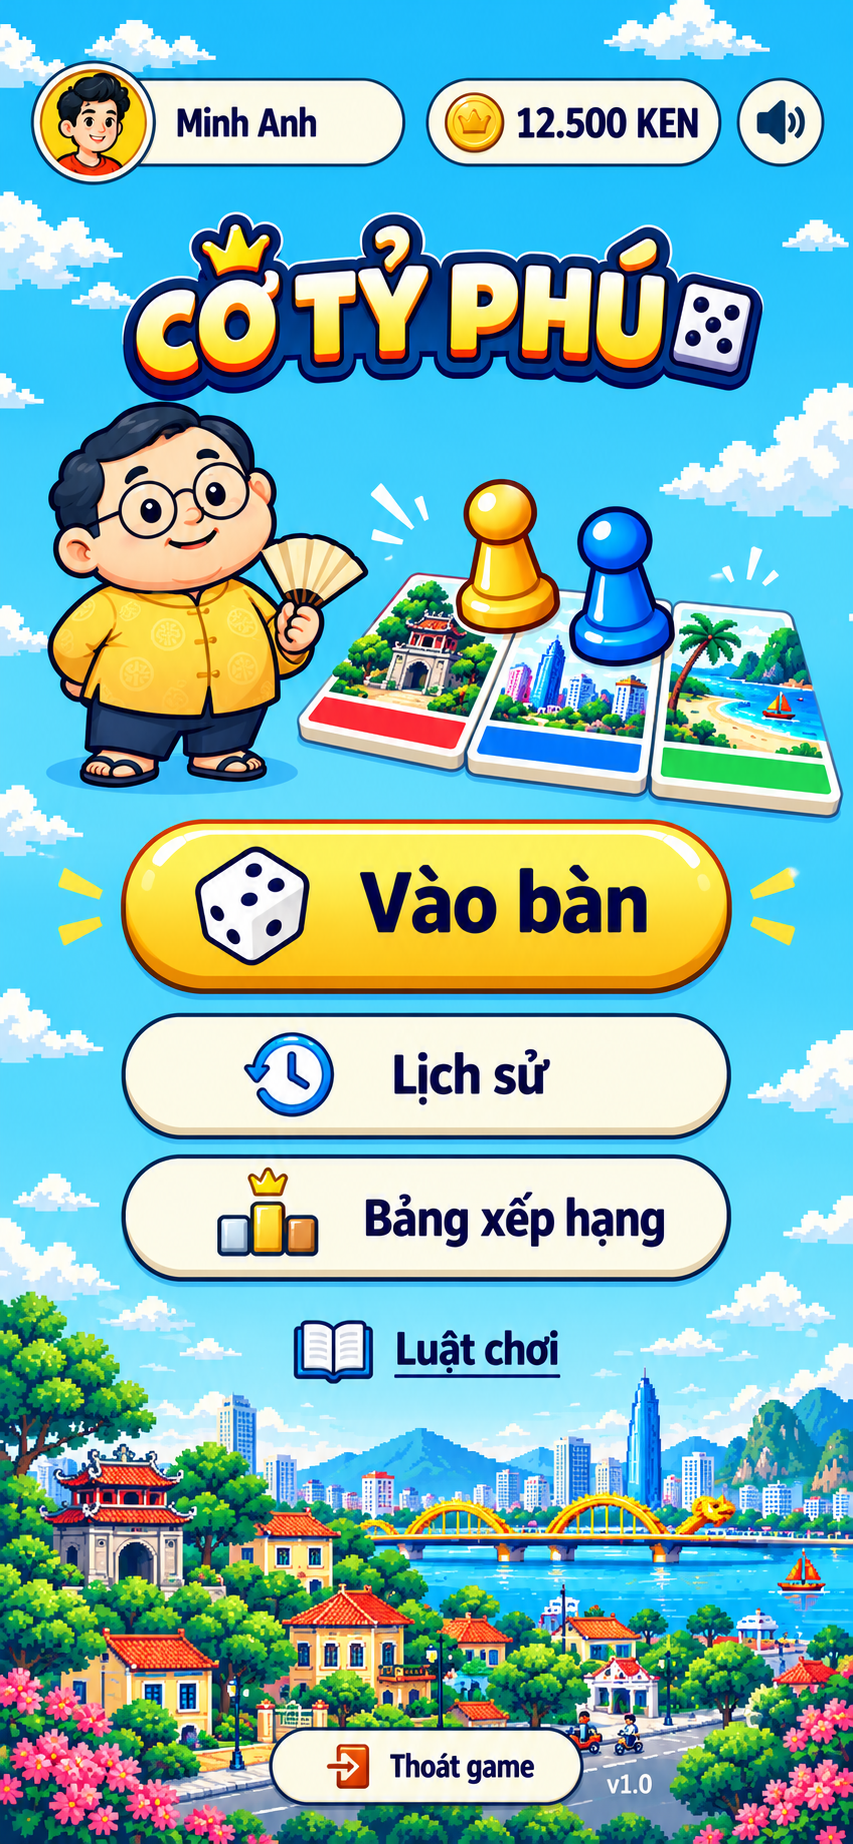
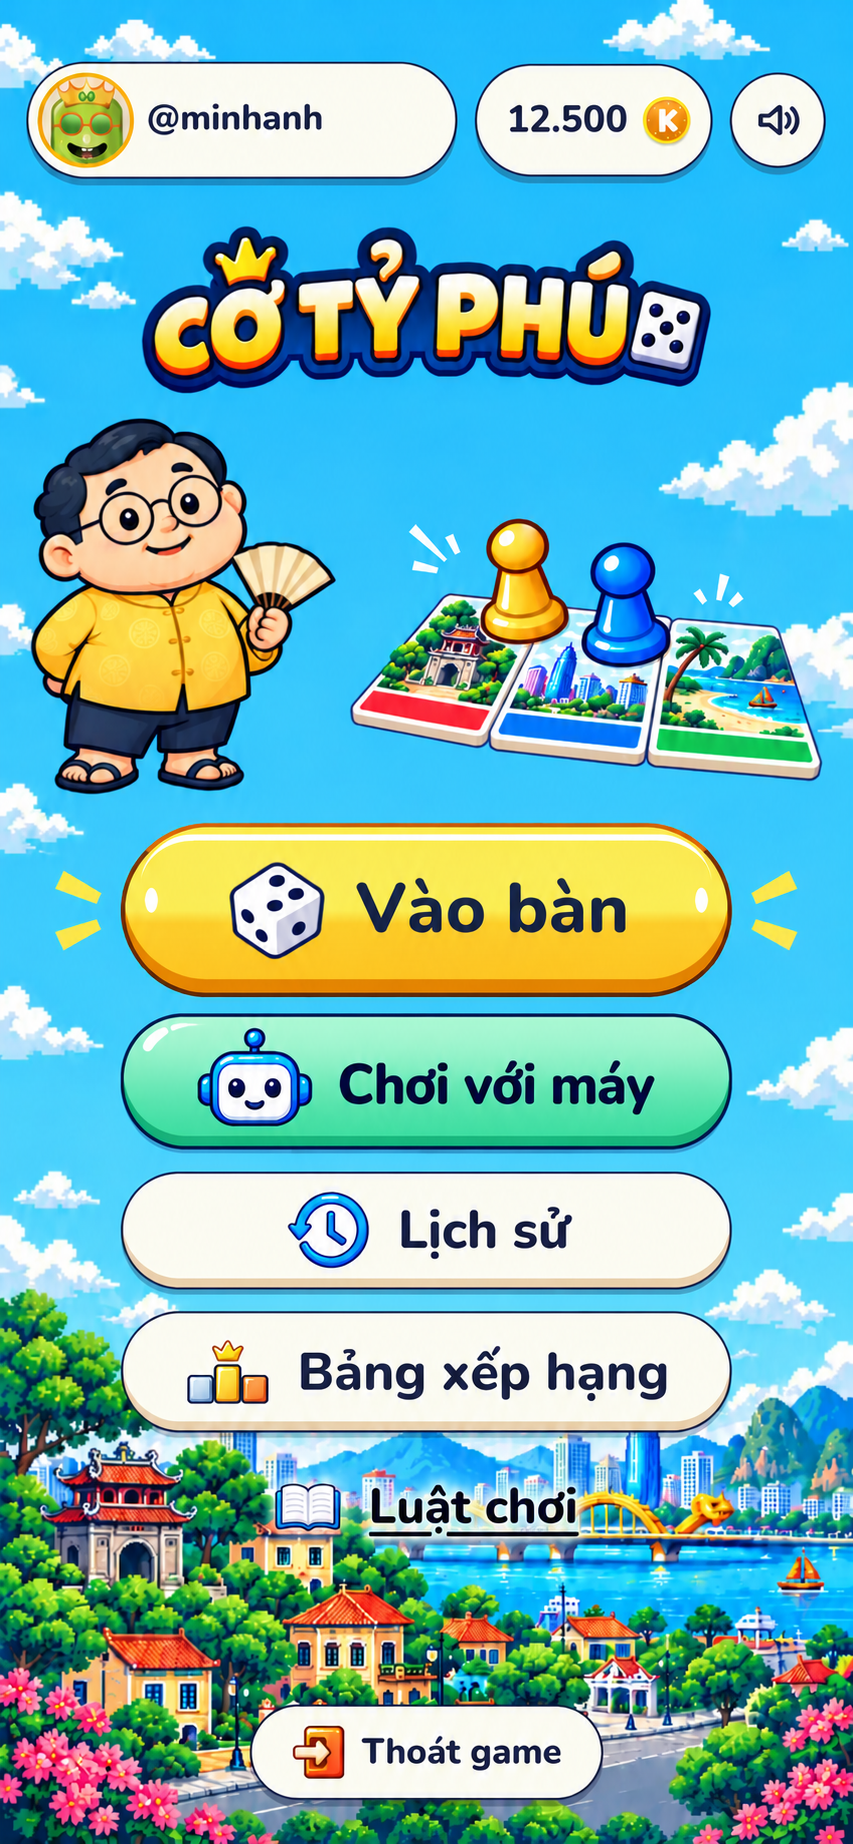
feat(tycoon): nút Chơi với máy ở sảnh S2, thay concept S2 bằng bản có nút xanh ngọc
- Nút xanh ngọc dưới Vào bàn mở BotSetupModal, mặt nút CSS, robot ill-bot.webp
- Concept S2 mới ghi đè file cũ cùng tên; tách icon-bot.png, button-mint.png
- Docs S2, 02, 04, log và prompts ghi nhận nút đã tích hợp

diff --git a/game/tycoon/style.css b/game/tycoon/style.css
@@ -441,6 +441,9 @@ button:focus-visible,
   --ty-lb-cta-base: #542507;
   --ty-lb-paper-edge: #e9d6b0;
   --ty-lb-paper-shadow: rgba(32, 114, 171, 0.6);
+  --ty-lb-mint-face: #a4f4cf;
+  --ty-lb-mint-low: #51d9a3;
+  --ty-lb-mint-edge: #299b79;
   --ty-lb-menu-w: clamp(256px, calc((100% + 24px) * 0.8 - 32px), 320px);
 }
 
@@ -764,6 +767,36 @@ button:focus-visible,
   height: 40px;
 }
 
+.ty-lb-btn-mint {
+  position: relative;
+  min-height: 56px;
+  font-size: 24px;
+  border: 1.5px solid var(--ty-lb-navy);
+  background: linear-gradient(180deg, var(--ty-lb-mint-face) 0%, var(--ty-lb-mint-face) 20%, var(--ty-lb-mint-low) 100%);
+  box-shadow: inset 0 -4px 0 var(--ty-lb-mint-edge), 0 2px 0 var(--ty-lb-paper-shadow);
+}
+
+.ty-lb-btn-mint > * {
+  position: relative;
+}
+
+.ty-lb-btn-mint::before {
+  content: '';
+  position: absolute;
+  top: 4px;
+  left: 12px;
+  width: 30px;
+  height: 14px;
+  border-top: 2.5px solid rgba(255, 255, 255, 0.9);
+  border-radius: 100% 0 0 0 / 100% 0 0 0;
+  pointer-events: none;
+}
+
+.ty-lb-btn-mint img {
+  width: 40px;
+  height: 40px;
+}
+
 .ty-lb-btn-text {
   width: auto;
   align-self: center;
@@ -860,8 +893,13 @@ button:focus-visible,
   box-shadow: inset 0 -2px 0 var(--ty-lb-paper-edge);
 }
 
+.ty-lb-btn-mint:active:not(:disabled) {
+  box-shadow: inset 0 -2px 0 var(--ty-lb-mint-edge);
+}
+
 @media (max-width: 370px) {
-  .ty-lb-btn-paper {
+  .ty-lb-btn-paper,
+  .ty-lb-btn-mint {
     font-size: 22px;
   }
 
@@ -892,7 +930,8 @@ button:focus-visible,
     font-size: 28px;
   }
 
-  .ty-lb-btn-paper {
+  .ty-lb-btn-paper,
+  .ty-lb-btn-mint {
     min-height: 52px;
     font-size: 22px;
   }

diff --git a/game/tycoon/screens/LobbyScreen.tsx b/game/tycoon/screens/LobbyScreen.tsx
@@ -3,6 +3,7 @@ import bgUrl from '../assets/lobby/bg-board-pixel.webp';
 import logoUrl from '../assets/lobby/logo.webp';
 import heroUrl from '../assets/lobby/hero-properties.webp';
 import diceUrl from '../assets/lobby/ill-dice.webp';
+import botUrl from '../assets/lobby/ill-bot.webp';
 import historyUrl from '../assets/lobby/ill-history.webp';
 import leaderboardUrl from '../assets/lobby/ill-leaderboard.webp';
 import rulesUrl from '../assets/lobby/ill-rules.webp';
@@ -18,10 +19,11 @@ import { LobbyTopbar } from './LobbyTopbar';
 const ONLINE_SOON = 'Tính năng online đang được làm';
 
 export function LobbyScreen() {
-  const { profile, setRoomsOpen, setRulesOpen, exitGame, showToast } = useTycoon(
+  const { profile, setRoomsOpen, setSetupOpen, setRulesOpen, exitGame, showToast } = useTycoon(
     useShallow((s) => ({
       profile: s.profile,
       setRoomsOpen: s.setRoomsOpen,
+      setSetupOpen: s.setSetupOpen,
       setRulesOpen: s.setRulesOpen,
       exitGame: s.exitGame,
       showToast: s.showToast,
@@ -68,6 +70,10 @@ export function LobbyScreen() {
             </button>
             <img className="ty-lb-cta-rays" src={ctaRaysUrl} alt="" draggable={false} />
           </div>
+          <button type="button" className="ty-lb-btn ty-lb-btn-mint" onClick={() => setSetupOpen(true)}>
+            <img src={botUrl} alt="" draggable={false} />
+            <span>Chơi với máy</span>
+          </button>
           <button type="button" className="ty-lb-btn ty-lb-btn-paper" onClick={() => showToast(ONLINE_SOON)}>
             <img src={historyUrl} alt="" draggable={false} />
             <span>Lịch sử</span>

diff --git a/game/tycoon/docs/asset-generation-log.md b/game/tycoon/docs/asset-generation-log.md
@@ -11,6 +11,7 @@
 - Hậu kỳ khi đưa vào docs: copy nguyên byte và đổi tên theo quy ước màn; không crop, resize, nén lại hoặc chỉnh ảnh.
 - Kích thước cuối: **853 × 1844 px**, **2.136.952 byte** (khoảng 2,04 MiB).
[2 lines of base64/hex data omitted]
 - Người duyệt: người dùng, chọn ảnh thứ nhất trong cuộc hội thoại.
 - Kiểm tra docs: ảnh đích có cùng hash với nguồn; đủ topbar/logo/mascot/3 thẻ/2 quân/4 action/footer, đã xem ảnh trực tiếp.
 - Ngoại lệ production: tên, avatar, số dư, version là mẫu; chữ bằng DOM với Nunito, avatar VIP + `@username`; palette, kích thước và trạng thái theo [style lobby](./screens/s2-lobby/README.md). Concept không yêu cầu alpha và không được tính vào budget asset tải game.
@@ -140,3 +141,24 @@ Variant-specific invariants: Keep single cream paper table with subtle dividers,
 - SVG riêng: reload, khóa đặc, cảnh báo, hai chevron × hai trạng thái, X đậm/mảnh; màu theo token navy `#1f2a44`, coral `#e4573d`, kem `#fff8ea`. Mắt mật khẩu không tách bộ riêng: `ic-eye` / `ic-eye-off` đổi sang mắt đặc. Tổng [11 file runtime](../assets/room-list/README.md), dùng `RoomIcon`.
 - Đã so từng icon với chi tiết ảnh mẫu phóng lớn và cỡ thật; [audit](./screens/s3-room-list/icon-export-audit.md). Khóa vàng và dấu cộng còn lệch nhỏ; mắt gạch và trang sau disabled không có ảnh mẫu riêng.
 - Trạng thái: đã xuất để review, chưa duyệt asset và chưa lắp màn online.
+
+## S2 — chốt nút Chơi với máy và tách asset
+
+- Ngày **22/10/2026**, người dùng chốt bản xanh ngọc v4, giữ topbar đúng docs: VIP + @username; số dư rồi đồng K bên phải, bỏ chữ KEN. Ảnh này **thay** [concept S2](./screens/s2-lobby/concept-s2-lobby-pixel-16bit.png) cùng tên.
+- Built-in imagegen sinh v4: đầu vào là bản v3 sửa topbar (theo screenshot runtime: VIP 3, @minhanh, 12.500 rồi đồng K) và bản v2 chỉ làm tham chiếu màu mint/robot. Output `exec-307eb17f-982d-4cdd-839d-c0b0695c0935.png`, giữ nguyên byte 853 × 1844. Các bản thử đã dọn, không dùng làm chuẩn.
+- Tách hai PNG alpha `icon-bot.png` và `button-mint.png`; người dùng xác nhận cần nền nút không chữ, không phải ô nhập liệu. [Prompt, kiểm alpha, giới hạn và cách dùng](../assets/screens/lobby/prompts.md#chơi-với-máy-2026-10-22); metadata/hash trong manifest.
+- Đã xuất `lobby/ill-bot.webp` (104 × 90, 3.642 byte, cùng thông số các `ill-*`) và gắn nút vào sảnh. Nền nút dựng bằng CSS theo `button-mint.png`, chữ là DOM. Các phần khác dùng lại asset đang có.
+
+### Prompt concept v4
+
+```text
+Use case: precise-object-edit.
+Two inputs:
+IMAGE 1 is the EDIT TARGET and authoritative entire screen: current-style Cờ Tỷ Phú lobby with correct VIP/@username/K balance topbar and a lavender robot button.
+IMAGE 2 is ONLY a COLOR AND ROBOT REFERENCE for its mint-green "Chơi với máy" button. Absolutely do not use image 2's outdated topbar, font, hero or other layout.
+
+Edit IMAGE 1: replace its lavender "Chơi với máy" button with the mint jade-green button style from IMAGE 2. Match that appealing mint face: pale mint #A4F4CF at top to jade #51D9A3 lower face, deeper jade #299B79 bottom bevel, single navy outline #1F2A44, one small upper-left highlight. Remove lavender completely from this button. Replace the white/gold robot with the blue/white friendly robot head from IMAGE 2: blue antenna and earpieces, rounded blue outer case, white face, two navy eyes and smile, small highlights. Keep robot inside button with sufficient padding. Restore the prior mint-button look, not a new design.
+Button is directly below Vào bàn, above Lịch sử. Keep image 1's current rounded Nunito typography, navy exact text "Chơi với máy". Center icon and label as one group. Match width of other buttons and match secondary button height (Lịch sử), about 56 CSS pixels; robot ~40 CSS pixels, no protruding antenna. Keep the same upper edge position and comfortable gap below it, don't move other actions. Avoid two bright blobs at either end or large white highlight strips; use the quieter highlight from image 2.
+
+CRITICAL KEEP FROM IMAGE 1: topbar left green Ola VIP face with crown and red glasses, exact lowercase "@minhanh"; balance exact "12.500" THEN gold coin with white letter K on the RIGHT, no "KEN" suffix, no coin before amount, no crown coin, no human portrait, no "Minh Anh". Preserve image 1 font, cream pills, navy outlines, sound icon and all topbar alignment. Keep ALL other pixels/content as closely unchanged as possible: logo, character, property cards and pawns, golden Vào bàn, cream Lịch sử and Bảng xếp hạng, underlined Luật chơi, footer Thoát game, sky and city. Gold Vào bàn remains the large primary action. Output one full portrait screen matching image 1 dimensions/aspect. No annotations, extra buttons, badges, version or frame.
+```

diff --git a/game/tycoon/assets/screens/lobby/README.md b/game/tycoon/assets/screens/lobby/README.md
@@ -1,6 +1,6 @@
 # Lobby — asset tách từ concept S2
 
-15 PNG nguồn của lobby S2, tách từ [concept S2](../../../docs/screens/s2-lobby/concept-s2-lobby-pixel-16bit.png) bằng built-in image_gen. Ngày 2026-10-21 đã so từng file v1/v2 cạnh concept; **8 file dùng bản v2** (gần mẫu hơn), 5 file giữ v1; icon thoát giữ thiết kế v1 và được tách thành 2 lớp cửa + mũi tên bằng imagegen ([exit-split-prompts.md](./exit-split-prompts.md)). Lý do chọn từng file ở [audit S2 §5](../../../docs/screens/s2-lobby/asset-audit.md#5-tách-lại-v2-và-lựa-chọn-cuối).
+17 PNG nguồn của lobby S2: 15 file trước và 2 file chơi máy mới (22/10/2026). Bộ 15 file trước được tách từ bản 20/10 của [concept S2](../../../docs/screens/s2-lobby/concept-s2-lobby-pixel-16bit.png) (đã thay bằng bản có nút chơi máy, bản cũ xem ở commit `9be6d970b`) bằng built-in image_gen. Ngày 2026-10-21 đã so từng file v1/v2 cạnh concept; **8 file dùng bản v2** (gần mẫu hơn), 5 file giữ v1; icon thoát giữ thiết kế v1 và được tách thành 2 lớp cửa + mũi tên bằng imagegen ([exit-split-prompts.md](./exit-split-prompts.md)). Lý do chọn từng file ở [audit S2 §5](../../../docs/screens/s2-lobby/asset-audit.md#5-tách-lại-v2-và-lựa-chọn-cuối).
 
 | File | Bản | Nội dung |
 |---|---|---|
@@ -15,16 +15,18 @@
 | [icon-exit.png](./icon-exit.png) | v1, reference | Ảnh ghép cửa + mũi tên, chỉ dùng đối chiếu, không xuất runtime |
 | [icon-exit-door.png](./icon-exit-door.png) | v1-split | Cửa cam, lớp dưới |
 | [icon-exit-arrow.png](./icon-exit-arrow.png) | v1-split | Mũi tên kem viền đỏ nâu hướng phải, lớp trên |
-| [icon-ken.png](./icon-ken.png) | v1 | Xu KEN |
+| [icon-ken.png](./icon-ken.png) | v1, reference | Đồng vương miện cũ; runtime hiện dùng đồng K `assets/lobby/ken.png` |
 | [icon-sound.png](./icon-sound.png) | v1 | Loa và sóng âm (chỉ trạng thái bật) |
 | [button-gold.png](./button-gold.png) | v2 | Nền nút vàng không chữ/icon, visible 3,50:1 |
 | [button-paper.png](./button-paper.png) | v2 | Nền nút kem một contour, visible 4,87:1 |
+| [icon-bot.png](./icon-bot.png) | bot-v1 | Robot xanh–trắng, nền trong suốt; runtime `lobby/ill-bot.webp` |
+| [button-mint.png](./button-mint.png) | bot-v1 | Nền nút xanh ngọc không chữ/icon, visible 4,945:1; mẫu surface CSS |
 
-14 PNG có alpha, 1 nền kín. [Manifest](./manifest.json) ghi kích thước, hash, số byte, nguồn sinh, bản v1/v2 và giới hạn đã biết; `file` tính tương đối từ thư mục này. PNG không import trực tiếp vào game.
+16 PNG có alpha, 1 nền kín. Hai file chơi máy tách từ concept hiện tại; [prompt, kiểm alpha và ghi chú QA](./prompts.md#chơi-với-máy-2026-10-22). [Manifest](./manifest.json) ghi kích thước, hash, số byte, nguồn sinh, bản v1/v2 và giới hạn đã biết; `file` tính tương đối từ thư mục này. PNG không import trực tiếp vào game.
 
 ## Xuất runtime
 
-Đã xuất 11 WebP vào `assets/lobby/` và `assets/chars/`: cắt theo alpha (> 8) + đệm trong suốt 4 px, thu LANCZOS về ~2× cỡ hiển thị, WebP q80/alpha q90; nền kín 780 px rộng, q68. Script xuất không lưu trong repo (bảng đối chiếu ở [style S2 §10](../../../docs/screens/s2-lobby/README.md#10-asset-cắt-từ-concept--file-production)). Hai skin nút và loa không xuất: nút dựng bằng CSS, loa dùng cặp `ic-volume-on/off`. Thoát dùng `ill-exit-door.webp` + `ill-exit-arrow.webp` chồng trong một ô 24 px; thông số ở [exit-split-prompts.md](./exit-split-prompts.md#export-và-ghép). Sửa PNG nào thì xuất lại file WebP tương ứng theo thông số trên; nếu khung `hero-properties.webp` đổi, chỉnh tọa độ trong `lobby/decor-hero-rays.svg`.
+Đã xuất 12 WebP vào `assets/lobby/` và `assets/chars/`: cắt theo alpha (> 8) + đệm trong suốt 4 px, thu LANCZOS về ~2× cỡ hiển thị, WebP q80/alpha q90; nền kín 780 px rộng, q68. Script xuất không lưu trong repo (bảng đối chiếu ở [style S2 §10](../../../docs/screens/s2-lobby/README.md#10-asset-cắt-từ-concept--file-production)). Ba skin nút và loa không xuất: nút dựng bằng CSS, loa dùng cặp `ic-volume-on/off`. Thoát dùng `ill-exit-door.webp` + `ill-exit-arrow.webp` chồng trong một ô 24 px; thông số ở [exit-split-prompts.md](./exit-split-prompts.md#export-và-ghép). Sửa PNG nào thì xuất lại file WebP tương ứng theo thông số trên; nếu khung `hero-properties.webp` đổi, chỉnh tọa độ trong `lobby/decor-hero-rays.svg`.
 
 Tia vàng CTA (2 + 2) và tia trắng hero (3 + 3) không nằm trong PNG; chúng là SVG riêng `lobby/decor-cta-rays.svg`, `lobby/decor-hero-rays.svg`.
 

diff --git a/game/tycoon/assets/screens/lobby/prompts.md b/game/tycoon/assets/screens/lobby/prompts.md
@@ -117,3 +117,28 @@ Tia vàng CTA và tia trắng hero không nằm trong PNG; chúng là hai SVG ri
 ## Tách lại cửa và mũi tên từ v1 (2026-10-21)
 
 Theo yêu cầu tiếp tục dùng imagegen, đã tách lại đúng thiết kế thoát v1 thành `icon-exit-door.png` và `icon-exit-arrow.png`. Giữ cửa cam, mũi tên kem viền đỏ nâu hướng phải. Hai output này khác cặp v2 bị loại ở trên. [Toàn bộ prompt, output ID, lượt sửa tỷ lệ và thông số export](./exit-split-prompts.md). PNG nguồn giữ nguyên output imagegen, không script mask/recolor.
+
+## Chơi với máy (2026-10-22)
+
+Tách từ [concept S2](../../../docs/screens/s2-lobby/concept-s2-lobby-pixel-16bit.png) bản có nút xanh ngọc, hai lượt built-in imagegen riêng, `transparent_background=true`; giữ nguyên PNG công cụ trả về, không chỉnh pixel hoặc kéo giãn.
+
+| File | Vai trò | Runtime |
+|---|---|---|
+| `icon-bot.png` | Robot xanh–trắng, 52,54% trong suốt | `lobby/ill-bot.webp` 104 × 90, slot 40 × 40, alt rỗng |
+| `button-mint.png` | Mặt nút xanh ngọc không chữ/icon, 59,53% trong suốt; visible (alpha ≥ 128) 1800 × 364, tỷ lệ 4,945:1 | Không xuất; mẫu cho CSS `.ty-lb-btn-mint`, nút 280 × 56 ở viewport 390 |
+
+Đã kiểm trực quan: đủ đầu/ăng-ten/tai robot, không còn chữ hay UI khác; nền nút chỉ còn mặt mint, viền navy, cạnh jade và highlight trên trái. Giới hạn: imagegen tái dựng chi tiết, không phải crop trùng pixel (robot có shading mắt/miệng rõ hơn ảnh nhỏ, highlight nút liền mạch hơn concept); đã xem ở cỡ thật trong sảnh 390/375/360, chưa qua visual QA. Các phần khác của concept dùng lại asset đang có, không tách lại.
+
+```text
+Use case: background-extraction.
+Input image is the approved Cờ Tỷ Phú lobby. Extract ONLY the blue/white ROBOT HEAD icon from the mint-green "Chơi với máy" button beneath the gold Vào bàn button. Return a single isolated PNG with genuine transparent alpha background.
+Preserve the exact selected robot design: near-square rounded BLUE outer head case, white/light lavender face inset, two tall oval navy eyes with tiny white catchlights, small curved navy smile, blue rectangular rounded earpieces on both sides, one centered short blue antenna with round blue tip, dark navy contour and restrained white/cyan highlights. Front-facing, no perspective, no body, arms, legs, gold, crown or redesign.
+Faithfully isolate and upscale this specific icon, not invent a different robot. Preserve antenna/head/ear proportions and original outline weight, about square overall silhouette. Center the complete icon with approximately 8% transparent margin; keep the antenna and both ears intact. Suitable to display at 40 px. No floor shadow, no glow or halo outside contour, no checkerboard painted into pixels, no button, text, mint surface, sky, scenery or other UI. Keep only the robot and true transparent surrounding pixels.
+```
+
+```text
+Use case: background-extraction.
+Extract the EMPTY MINT JADE-GREEN BUTTON SURFACE from the supplied approved Cờ Tỷ Phú lobby image: the "Chơi với máy" pill directly below gold Vào bàn. Output only this ONE empty button, isolated on genuine transparent alpha background.
+Remove the robot and ALL text completely and cleanly reconstruct continuous mint surface underneath them. Preserve shape, palette and finish of that exact green button: full capsule/pill ends, single dark navy exterior contour, pale mint #A4F4CF upper face graduating to jade #51D9A3 lower face, darker jade #299B79 raised lower bevel INSIDE the contour, small soft white curved highlight near upper LEFT edge. No white highlight on the right, no full white inner ring, no extra thick navy shadow/second outline, no lavender. No symbols, label, robot, empty icon badge, rays or glowing halo.
+Use visible button width-to-height ratio EXACTLY 5:1 (production target 280 x 56 CSS pixels), including its bottom bevel. Long horizontal pill, not a fat 3:1 capsule. Fit the complete shape, not clipped, in a landscape transparent canvas with minimal 4–6% margins around the whole visible button. The canvas can be 3:1 or wider, but the VISIBLE BUTTON must be 5:1, centered vertically. This is a reusable texture reference/skin, so the whole center is uninterrupted mint. Preserve clean smooth edges and original visual style. No floor, background, sky, checkerboard baked in, scene, additional shapes or watermarks.
+```

diff --git a/game/tycoon/docs/02-screen-specs.md b/game/tycoon/docs/02-screen-specs.md
@@ -23,7 +23,7 @@ UI đã tích hợp trong `LobbyScreen` khi `profile === null`; style và render
 
 ## S2. Lobby
 
-**Ảnh đã chốt: phương án 1 — Nền trời thoáng.** Xem [concept S2](./screens/s2-lobby/concept-s2-lobby-pixel-16bit.png) và [style lobby](./screens/s2-lobby/README.md) cho font, màu, hero, asset, trạng thái và responsive. Các mốc dưới đây ở vùng khả dụng 390 × 844 sau safe-area; bố cục dùng luồng dọc, không khóa toàn màn bằng tọa độ tuyệt đối.
+**Ảnh đã chốt: phương án 1 — Nền trời thoáng.** Xem [concept S2](./screens/s2-lobby/concept-s2-lobby-pixel-16bit.png) (bản 22/10/2026 có nút chơi máy) và [style lobby](./screens/s2-lobby/README.md) cho font, màu, hero, asset, trạng thái và responsive. Các mốc dưới đây ở vùng khả dụng 390 × 844 sau safe-area; bố cục dùng luồng dọc, không khóa toàn màn bằng tọa độ tuyệt đối.
 
 ### 2.1 Cấu trúc dọc
 | Vùng | y | Nội dung |
@@ -31,18 +31,19 @@ UI đã tích hợp trong `LobbyScreen` khi `profile === null`; style và render
 | Topbar | 28–80 | avatar VIP + `@username` (trái, 03 §18), badge KEN (phải), nút âm thanh; KEN dài được xuống hàng. Component `LobbyTopbar` dùng chung với S3, cùng vị trí, không animate khi chuyển màn |
 | Logo | 100–180 | logo "CỜ TỶ PHÚ", khung tối đa 320 × 80 |
 | Hero | 188–364 | Bác Tỷ trái, 3 thẻ đất có tranh pixel và 2 quân con tốt vàng/xanh bên phải |
-| CTA stack | 376–648 | 4 action dọc, rộng 280, cách 12 px |
-| Footer | đáy − 64 đến đáy − 20 | nút Thoát game (`bridge.exit()`) cao 44, version nhỏ; cách menu ít nhất 24 |
+| CTA stack | 376–716 | 5 action dọc, rộng 280, cách 12 px |
+| Footer | đáy − 64 đến đáy − 20 | nút Thoát game (`bridge.exit()`) cao 44, không version; cách menu ít nhất 24 |
 
 ### 2.2 CTA stack
 | Nút | Style | Hành vi |
 |---|---|---|
 | `Vào bàn` | CTA vàng 280×80, Nunito navy 32/800, minh họa xúc xắc | `openRanked()` → S3, preload nhóm RANKED |
+| `Chơi với máy` | xanh ngọc 280×56, Nunito navy 24/800, robot xanh–trắng 40 | `setSetupOpen(true)` → BotSetupModal, chọn 1–3 máy rồi vào ván |
 | `Lịch sử` | giấy kem viền navy 280×56, Nunito 24/800, minh họa đồng hồ blue | S10 |
 | `Bảng xếp hạng` | giấy kem viền navy 280×56, Nunito 24/800, minh họa bục/crown | S11 |
 | `Luật chơi` | nút text 280×44, Nunito navy 22/800 gạch chân, minh họa sách | mở modal luật: 6 mục ngắn (gieo, mua, thuê, xây, tù, kết thúc), scroll, nút Đóng |
 
-CTA online disabled khi `lobbyPhase !== 'ready'`. Luật chơi, âm thanh và thoát dùng được offline. Kích thước/font riêng S2 không đổi control S6; co giãn và màn thấp theo [S2 lobby §8](./screens/s2-lobby/README.md#8-loading-offline-và-responsive).
+CTA online disabled khi `lobbyPhase !== 'ready'`. Chơi với máy, Luật chơi, âm thanh và thoát dùng được offline. Kích thước/font riêng S2 không đổi control S6; co giãn và màn thấp theo [S2 lobby §8](./screens/s2-lobby/README.md#8-loading-offline-và-responsive).
 
 ---
 
